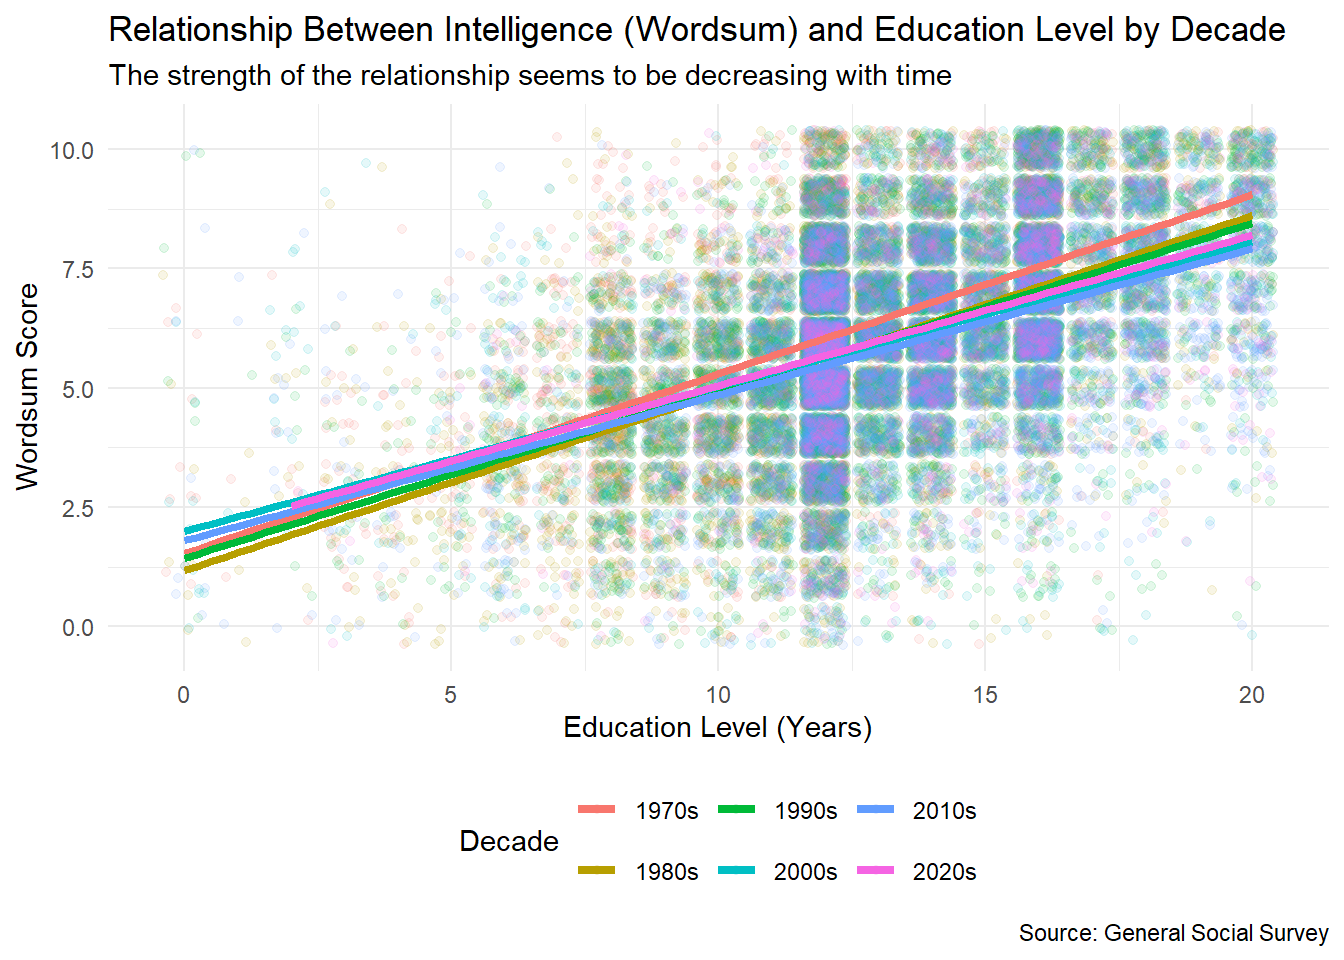
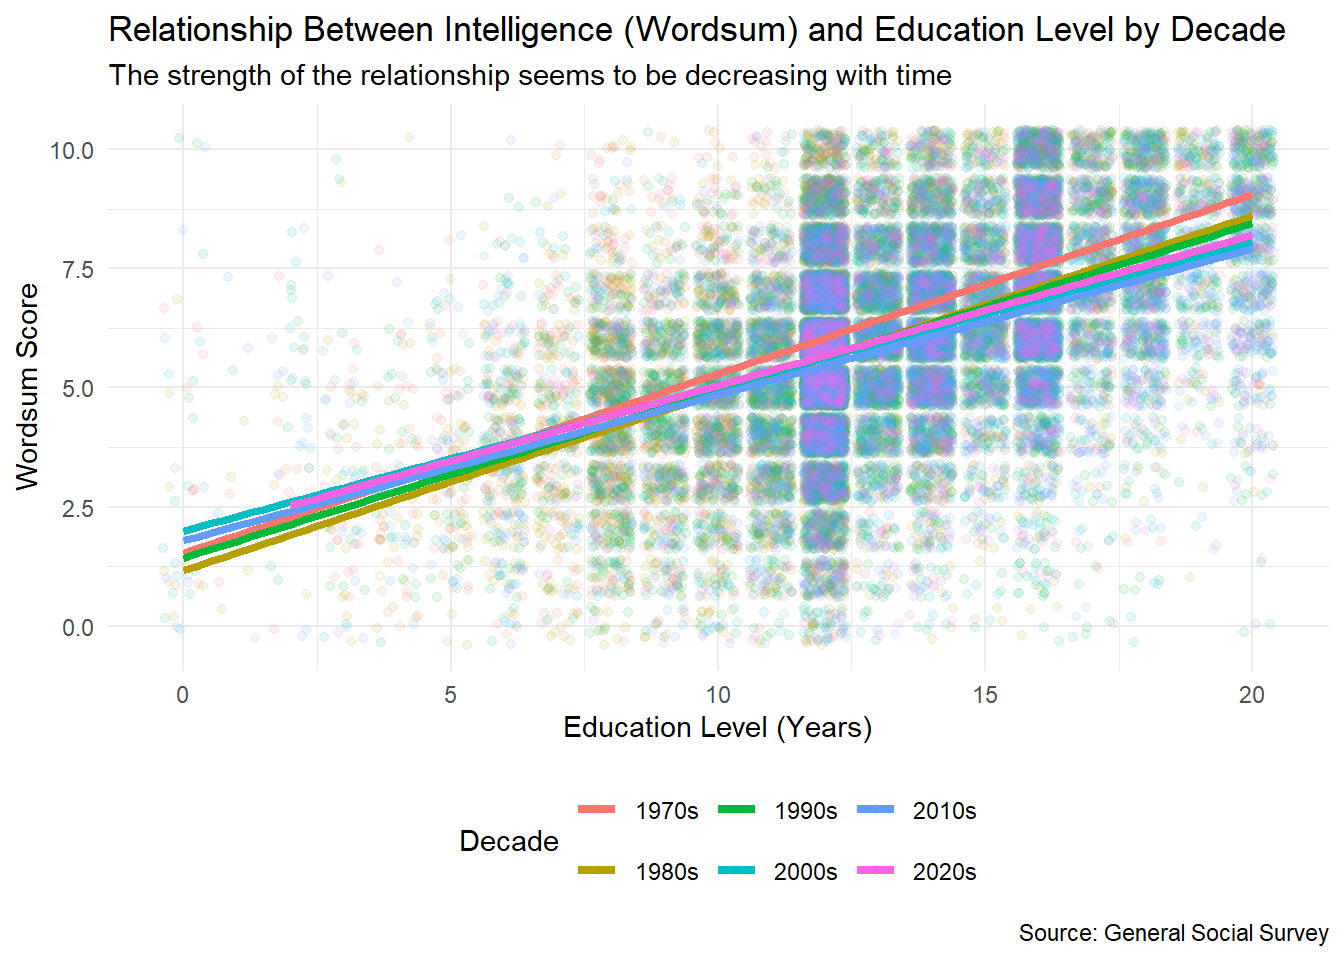
fixing the years of gss

diff --git a/_site/index.html b/_site/index.html
@@ -143,7 +143,7 @@ ul.task-list li input[type="checkbox"] {
 
 
 <p><strong>Does the strength of the relationship between intelligence and education change over time?</strong></p>
-<p>Using the 10-item vocabulary test called “Wordsum” as a proxy for intelligence, we produced a series of plots to visualize the change in the relationship between intelligence and education level from 1974 to 2020.</p>
+<p>Using the 10-item vocabulary test called “Wordsum” as a proxy for intelligence, we produced a series of plots to visualize the change in the relationship between intelligence and education level from 1974 to 2022.</p>
 <div class="cell">
 <div class="cell-output-display">
 <div>

diff --git a/_site/sources.html b/_site/sources.html
@@ -143,7 +143,7 @@ ul.task-list li input[type="checkbox"] {
 
 
 <p><strong>Data source used in my project</strong></p>
-<p>The data was pulled from the General Social Survey using the <a href="https://kjhealy.github.io/gssrdoc/">gssr package</a>. Data from the 1970s to the 2020s was used to analyze the relationship between the intelligence and education.</p>
+<p>The data was pulled from the General Social Survey using the <a href="https://kjhealy.github.io/gssrdoc/">gssr package</a>. Data from the surveys administered from 1974 to the 2022 was used to analyze the relationship between the intelligence and education.</p>
 
 
 
